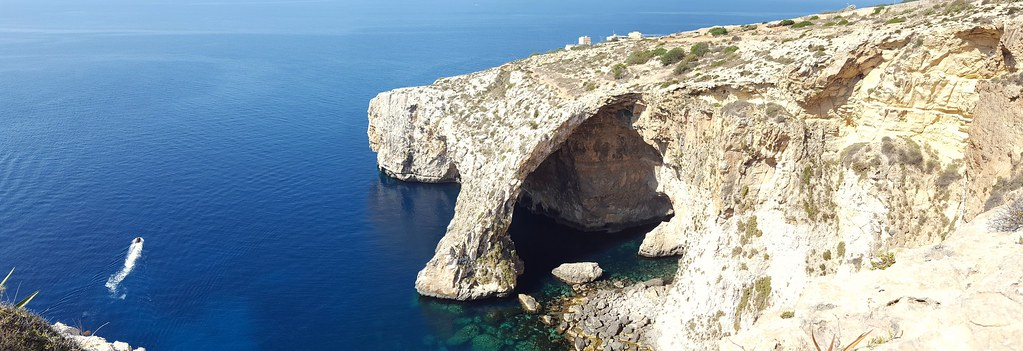
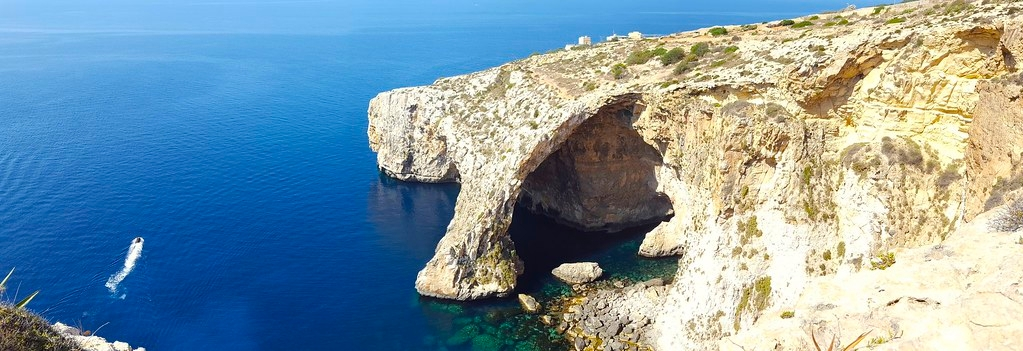
Added culture link & improved image contrast.

diff --git a/index.html b/index.html
@@ -9,16 +9,15 @@
 		<main>
 		<header>
 		<p style="text-align:center;background-color:#ffffff;"> <img style="height:auto;width:650px;" src="images/logo.svg" alt="Maltese Archipeligo Information"> </p>
-		<p style="text-align:center;font-family:'Brush Script MT',cursive;font-size:28px;background-color:#cf142bff;color:#ffffff;font-weight:bold;"> Merħba fil-websajt! </p>
+		<h1 style="text-align:center;font-family:'Brush Script MT',cursive;background-color:#cf142bff;color:#ffffff"> Merħba fil-websajt! </h1>
 		</header>
 		<div>
 		<img style="height:auto;width:700px;" src="images/blue-groto.jpg">
-		<p> A spiritual succesor to Grazio Falzon's <a href="https://web.archive.org/web/20050930235132/http://www.aboutmalta.com/">aboutmalta.com</a>
-		<p> This website contains original articles and web resources, pertaining to the Maltese Archipeligo.
+		<p class=Image-Caption style="text-align:center;"><i>Blue Groto</i></p> 
 		<p><b>Main Categories:</b></p>
 		<ul> 
 			<li> HISTORY </li>
-			<li> CULTURE </li>
+			<li> <a href="categories/culture.html">CULTURE</a></li>
 			<li> LANGUAGE </li>
 			<li> FOLKLORE </li>
 		</ul>
@@ -26,7 +25,10 @@
 		<ul>
 			<li> <a href="about-us.html">ABOUT US</a> </li>
 		</ul>
-		</div>
+		<hr>
+			<p> A spiritual succesor to Grazio Falzon's <a href="https://web.archive.org/web/20050930235132/http://www.aboutmalta.com/">aboutmalta.com</a>
+		<p> This website contains original articles and web resources, pertaining to the Maltese Archipeligo.
+	</div>
 		<footer>
 			<p> <img style="height:auto;width:21px;vertical-align:text-top;" src="images/github.svg"> Contribute to our <a href="https://github.com/ragelmalti/Maltese-Archipeligo-Website">github repo</a></p>
 			<p> <img style="height:auto;width:21px;vertical-align:text-top;" src="images/email.svg"> Or Contact us via email at: <a href="">malta-archipeligo.protonmail.ch</a></p>
